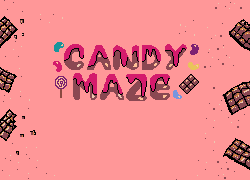
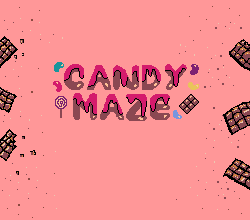
atualizando as imagens de fundo

diff --git a/CandyMaze.py b/CandyMaze.py
@@ -16,7 +16,7 @@ class Start:
 
         # Área do botão Start (ajuste conforme o texto)
         start_x = 97
-        start_y = 119
+        start_y = 130
         start_w = 110
         start_h = 10
         mouse_over_start = (
@@ -25,7 +25,7 @@ class Start:
         )
 
         mouse_over_quit = (130 <= pyxel.mouse_x <= 130 + 50 and
-                           119 <= pyxel.mouse_y <= 119 + 10
+                           130 <= pyxel.mouse_y <= 130 + 10
                            )
         
 
@@ -48,9 +48,9 @@ class Start:
 
     def desenhastart(self):
         pyxel.cls(14)
-        pyxel.blt(0, 0, 0, 0, 0, 250, 180)  
-        pyxel.text(130, 119, "(Q)UIT", pyxel.frame_count % 4)
-        pyxel.text(97, 119, "START |", pyxel.frame_count % 4)
+        pyxel.blt(0, 0, 0, 0, 0, 250, 220)  
+        pyxel.text(125, 130, "(Q)UIT", pyxel.frame_count % 4)
+        pyxel.text(90, 130, "START |", pyxel.frame_count % 4)
         # Desenha cursor do mouse customizado
         pyxel.mouse(True)
         
@@ -69,6 +69,7 @@ class Fase1:
         self.x = 0
         self.y = 0
         self.colisao = False
+
 
     def update_fase1(self):
         
@@ -102,8 +103,11 @@ class Fase1:
         if dx != 0 or dy != 0:
             self.personagem.move(dx, dy)
         else:
+
             #-------------- Personagem parado -------------------#
             self.personagem.parada()
+
+
         #----------------- Personagem pulando -------------------#
         # --- Lógica de duplo pulo --- #
         if not hasattr(self.personagem, 'pulos_restantes'):
@@ -127,23 +131,29 @@ class Fase1:
             self.personagem.y = 194
 
     def paredes(self):
-        self.heightfloor = 8
-        self.widthfloor = 250
+        
+            self.parede1 = pyxel.rect(119, 172, 6, 40, pyxel.COLOR_BROWN)  # parede vertical
+            self.parede2 = pyxel.rect(36, 164, 180, 8, pyxel.COLOR_BROWN)  # parede horizontal 1
+            self.parede3 = pyxel.rect(0, 116, 100, 8, pyxel.COLOR_BROWN)  # parede horizontal 2
+            self.parede4 = pyxel.rect(151, 116, 100, 8, pyxel.COLOR_BROWN)  # parede horizontal 3
+            self.parede5 = pyxel.rect(40, 68, 210, 8, pyxel.COLOR_BROWN)   # parede horizontal 4
+            
+
     def vidas(self):
         pass
 
     def draw_fase1(self):
-        pyxel.cls(14)
+        pyxel.cls(6)
+        pyxel.blt(0, 0, 2, 0, 0, 250, 220)
         pyxel.mouse(False) # mouse desativado
         self.personagem.desenhapersonagem()
 
         pyxel.text(5, 5, "FASE 1", 0)
         pyxel.text(5+0.5, 5+0.5, "FASE 1", self.colortext)
-        pyxel.rect(0, 212, 250, 8, pyxel.COLOR_CYAN)
-        pyxel.rect(121, 180, 6, 32, pyxel.COLOR_BROWN)
-        pyxel.rect(35, 173, 180, 8, pyxel.COLOR_BROWN)
-        pyxel.rect(0, 135, 105, 8, pyxel.COLOR_BROWN)
-        pyxel.rect(145, 135, 110, 8, pyxel.COLOR_BROWN)
+        pyxel.rect(0, 212, 250, 8, 3) # chão
+        self.porta_final = pyxel.rect(200, 37, 21, 31, pyxel.COLOR_BLACK) # porta final
+        self.paredes()
+        
 
 
 #----------------- Personagem ---------------------------------------------------------------------------------------#
@@ -156,10 +166,9 @@ class Personagem:
         self.largura = 14
         self.altura = 18
         self.x_mem = 0
-        self.contX = 0
+        self.contX = 0  
         self.y_mem = 0
         self.contY = 0
-        
 
     def move(self, dx, dy):
         self.x_mem = self.contX * self.largura
@@ -221,6 +230,8 @@ class Personagem:
             return True
         return False
 
+
+        
     #----------------- Desenha o personagem -------------------#
     def desenhapersonagem(self):
 
@@ -247,6 +258,7 @@ class CandyMazeGame:
         #-------- carrega as imagens --------#
         pyxel.images[0].load(0, 0, "background.png")
         pyxel.images[1].load(0, 0, "personagem.png")
+        pyxel.images[2].load(0, 0, "fundofase1.png")
         
         
         pyxel.run(self.update, self.draw)
